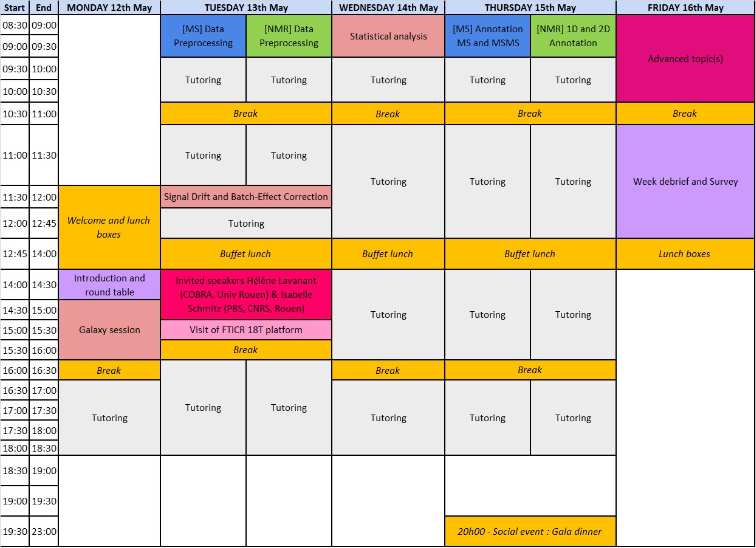
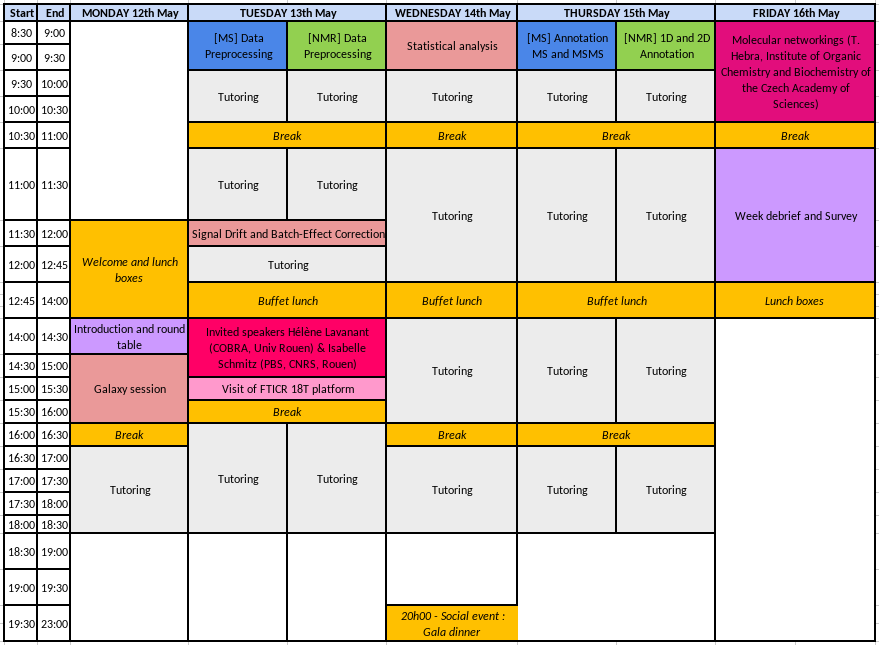
update program of w4e 25

diff --git a/docs/W4E/w4e2025.html b/docs/W4E/w4e2025.html
@@ -265,15 +265,8 @@ Important
 <figcaption>Map of Rouen</figcaption>
 </figure>
 </div>
-<p><strong>Program</strong>:</p>
+<p><strong>Program of online session</strong>:</p>
 <table class="table cart table-hover table-colored">
-<thead>
-<tr>
-<th colspan="5">
-W4E Webinar: from 28th to 30th of April
-</th>
-</tr>
-</thead>
 <thead>
 <tr>
 <th colspan="5">
@@ -292,6 +285,9 @@ INTRODUCTION
 <td colspan="2" class="product">
 Welcome and presentation of the webinar and the speakers
 </td>
+<td>
+PDF
+</td>
 </tr>
 </tbody>
 <tbody>
@@ -303,7 +299,10 @@ Welcome and presentation of the webinar and the speakers
 PRESENTATION
 </td>
 <td colspan="2" class="product">
-Galaxy session: Initiation and data management <br><em>M. Pétéra, Y. Guitton and G. Le Corguillé</em>
+Galaxy session: Initiation and data management <br><em>M. Pétéra, Y. Guitton</em>
+</td>
+<td>
+PDF
 </td>
 </tr>
 </tbody>
@@ -318,6 +317,9 @@ PRESENTATION
 <td colspan="2" class="product">
 [MS] Data Preprocessing <br><em>M. Pétéra, Y. Guitton</em>
 </td>
+<td>
+PDF
+</td>
 </tr>
 <tr class="remove-data">
 <td class="product">
@@ -329,6 +331,9 @@ PRESENTATION
 <td colspan="2" class="product">
 [NMR] Data Preprocessing <br><em>C. Canlet, M. Tremblay-Franco</em>
 </td>
+<td>
+PDF
+</td>
 </tr>
 <tr class="remove-data">
 <td class="product">
@@ -339,6 +344,9 @@ PRESENTATION
 </td>
 <td colspan="2" class="product">
 Signal Drift and Batch-Effect Correction <br><em>M. Pétéra</em>
+</td>
+<td>
+PDF
 </td>
 </tr>
 </tbody>
@@ -360,6 +368,9 @@ PRESENTATION
 <td colspan="2" class="product">
 Statistical analysis <br><em>M. Pétéra, M. Tremblay-Franco</em>
 </td>
+<td>
+PDF
+</td>
 </tr>
 </tbody>
 <tbody>
@@ -373,6 +384,9 @@ PRESENTATION
 <td colspan="2" class="product">
 [MS] Annotation <br><em>Y. Guitton, R. Weber</em>
 </td>
+<td>
+PDF
+</td>
 </tr>
 <tr class="remove-data">
 <td class="product">
@@ -382,7 +396,10 @@ PRESENTATION
 PRESENTATION
 </td>
 <td colspan="2" class="product">
-[NMR] Annotation <br><em>C. Canlet</em>
+[NMR] Annotation <br><em>C. Canlet, M. Tremblay-Franco</em>
+</td>
+<td>
+PDF
 </td>
 </tr>
 </tbody>
@@ -402,12 +419,15 @@ W4E Webinar: Wednesday 30th 2025
 PRESENTATION
 </td>
 <td colspan="2" class="product">
-Real-Time Insights: Focusing on Your Key Topics
+MetExplore <br><em>Nathalie Poupin</em>
+</td>
+<td>
+PDF
 </td>
 </tr>
 </tbody>
 </table>
-<br> <br>
+<p><strong>Program of insite session</strong>:</p>
 <table class="table cart table-hover table-colored">
 <thead>
 <tr>

diff --git a/docs/news.html b/docs/news.html
@@ -314,7 +314,7 @@ Title
 </tr>
 </thead>
 <tbody class="list">
-<tr data-index="0" data-listing-date-sort="1732662000000" data-listing-file-modified-sort="1743748677357" data-listing-date-modified-sort="NaN" data-listing-reading-time-sort="5" data-listing-word-count-sort="997" data-listing-title-sort="Workflow4Experimenters 2025" data-listing-filename-sort="w4e2025.qmd">
+<tr data-index="0" data-listing-date-sort="1732662000000" data-listing-file-modified-sort="1744870938964" data-listing-date-modified-sort="NaN" data-listing-reading-time-sort="6" data-listing-word-count-sort="1032" data-listing-title-sort="Workflow4Experimenters 2025" data-listing-filename-sort="w4e2025.qmd">
 <td>
 <span class="listing-year">2025</span>
 </td>
